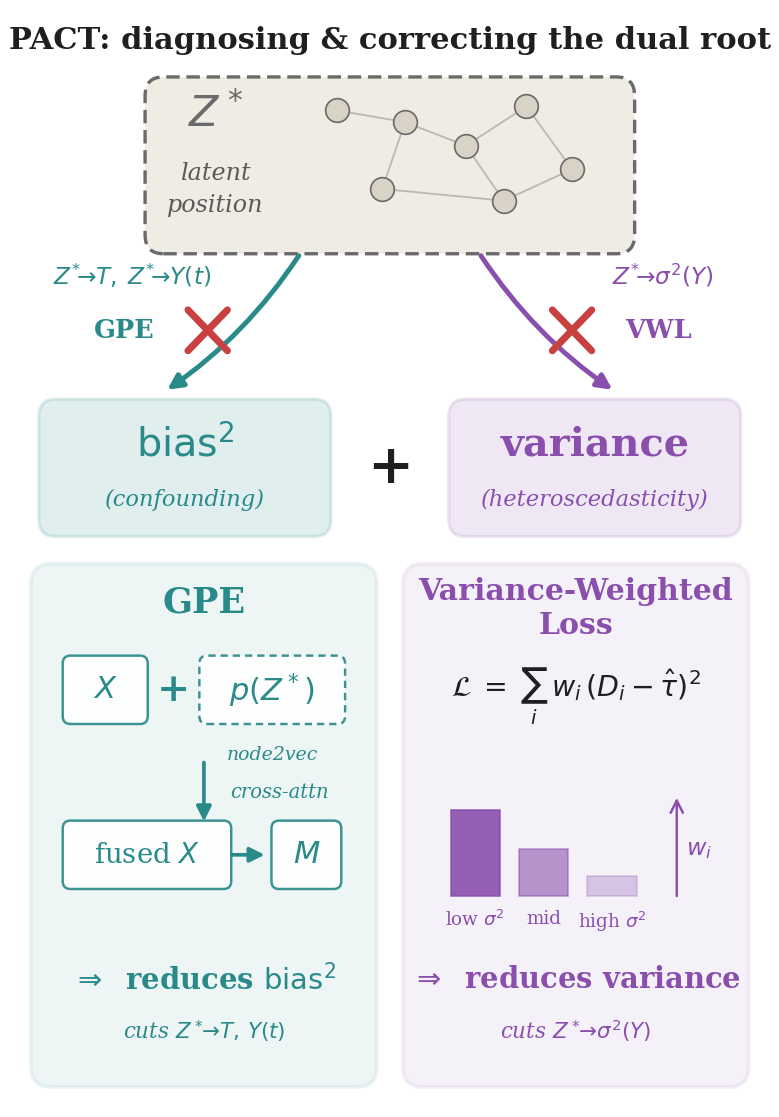
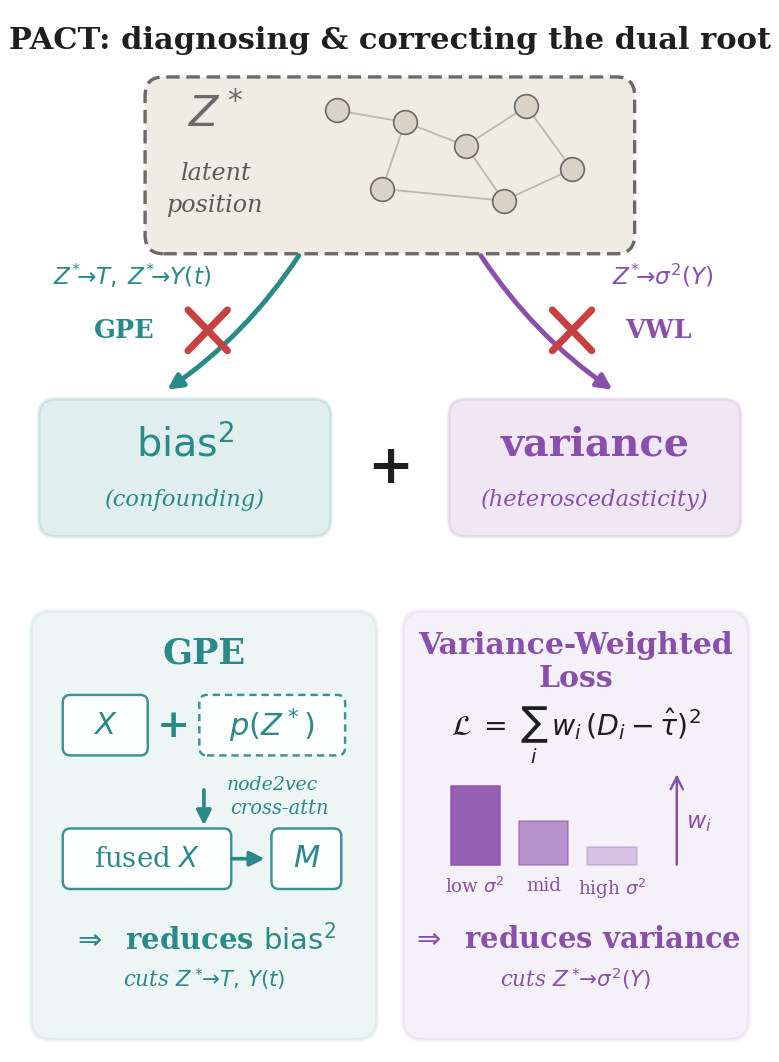
Fig 1: tighten plug-in card internal spacing
Card height 66 -> 54 units; internal gaps compressed:
  - VWL formula moved closer to the bar chart (gap ~15 -> ~7).
  - GPE row 2 (fused X -> M) moved tight under row 1, then
    takeaway + cuts lines packed right below.
  - VWL takeaway aligned at the same y as GPE's takeaway, so the
    two cards look consistent.
Figure height 5.0 -> 4.75 in. No content changes.

diff --git a/images/scripts/make_cover.py b/images/scripts/make_cover.py
@@ -189,82 +189,86 @@ def draw_zone_b(ax):
 #  vertical whitespace.)
 # ===================================================================
 def draw_zone_c(ax):
-    SHIFT = 10  # shift all zone-C content up by this many units
+    # Content y-coordinates are absolute (already post-shift from v11).
+    # Card height reduced from 66 -> 54 units; internal spacing tightened
+    # so the formula / bar-chart / takeaway lines pack closer together.
+    CARD_Y = 24
+    CARD_H = 54
 
     # =============== GPE card ===============
     gpe = mpatches.FancyBboxPatch(
-        (3.0, 8.0 + SHIFT), 45.0, 66.0,
+        (3.0, CARD_Y), 45.0, CARD_H,
         boxstyle="round,pad=0.3,rounding_size=2.6",
         linewidth=1.3, edgecolor=BIAS_ACCENT,
         facecolor=BIAS_ACCENT, alpha=0.08, zorder=3,
     )
     ax.add_patch(gpe)
-    ax.text(25.5, 69.5 + SHIFT, "GPE",
+    ax.text(25.5, 73.0, "GPE",
             ha="center", va="center",
             fontsize=11.5, fontweight="bold", color=BIAS_ACCENT, zorder=5)
 
     # Row 1: X  (+)  p(Z*)
-    _mini_box(ax, 7.0, 54.0 + SHIFT, 11.0, 8.5, "$X$", BIAS_ACCENT, text_size=10)
-    ax.text(21.5, 58.25 + SHIFT, "+", ha="center", va="center",
+    _mini_box(ax, 7.0, 60.0, 11.0, 7.5, "$X$", BIAS_ACCENT, text_size=10)
+    ax.text(21.5, 63.75, "+", ha="center", va="center",
             fontsize=13, color=BIAS_ACCENT, fontweight="bold", zorder=5)
-    _mini_box(ax, 25.0, 54.0 + SHIFT, 19.0, 8.5, r"$p(Z^*)$",
+    _mini_box(ax, 25.0, 60.0, 19.0, 7.5, r"$p(Z^*)$",
               BIAS_ACCENT, dashed=True, text_size=10)
-    ax.text(34.5, 50.0 + SHIFT, "node2vec",
+    ax.text(34.5, 56.2, "node2vec",
             ha="center", va="center",
             fontsize=6.2, style="italic", color=BIAS_ACCENT, zorder=5)
 
-    # Down-arrow labelled in-line
-    ax.annotate("", xy=(25.5, 41.5 + SHIFT), xytext=(25.5, 49.0 + SHIFT),
+    # Compact down-arrow labelled in-line
+    ax.annotate("", xy=(25.5, 51.0), xytext=(25.5, 55.5),
                 arrowprops=dict(arrowstyle="-|>", color=BIAS_ACCENT, lw=1.2,
                                 shrinkA=0, shrinkB=0),
                 zorder=5)
-    ax.text(29.0, 45.3 + SHIFT, "cross-attn",
+    ax.text(29.0, 53.2, "cross-attn",
             ha="left", va="center",
             fontsize=6.4, style="italic", color=BIAS_ACCENT, zorder=5)
 
     # Row 2: fused input -> M
-    _mini_box(ax, 7.0, 33.0 + SHIFT, 22.0, 8.5, "fused $X$", BIAS_ACCENT, text_size=9)
-    ax.annotate("", xy=(33.5, 37.25 + SHIFT), xytext=(29.2, 37.25 + SHIFT),
+    _mini_box(ax, 7.0, 43.0, 22.0, 7.5, "fused $X$", BIAS_ACCENT, text_size=9)
+    ax.annotate("", xy=(33.5, 46.75), xytext=(29.2, 46.75),
                 arrowprops=dict(arrowstyle="-|>", color=BIAS_ACCENT, lw=1.2,
                                 shrinkA=0, shrinkB=0),
                 zorder=5)
-    _mini_box(ax, 34.5, 33.0 + SHIFT, 9.0, 8.5, "$M$", BIAS_ACCENT, text_size=10)
+    _mini_box(ax, 34.5, 43.0, 9.0, 7.5, "$M$", BIAS_ACCENT, text_size=10)
 
-    # Takeaway lines
-    ax.text(25.5, 21.5 + SHIFT, r"$\Rightarrow\;$ reduces $\mathrm{bias}^2$",
+    # Takeaway lines — tight against row 2 above and each other
+    ax.text(25.5, 36.5, r"$\Rightarrow\;$ reduces $\mathrm{bias}^2$",
             ha="center", va="center",
             fontsize=9.5, fontweight="bold", color=BIAS_ACCENT, zorder=5)
-    ax.text(25.5, 15.0 + SHIFT,
+    ax.text(25.5, 31.5,
             r"cuts $Z^*\!\to T,\, Y(t)$",
             ha="center", va="center",
             fontsize=7.0, style="italic", color=BIAS_ACCENT, zorder=5)
 
     # =============== VWL card ===============
     vwl = mpatches.FancyBboxPatch(
-        (52.0, 8.0 + SHIFT), 45.0, 66.0,
+        (52.0, CARD_Y), 45.0, CARD_H,
         boxstyle="round,pad=0.3,rounding_size=2.6",
         linewidth=1.3, edgecolor=VAR_ACCENT,
         facecolor=VAR_ACCENT, alpha=0.08, zorder=3,
     )
     ax.add_patch(vwl)
-    ax.text(74.5, 70.8 + SHIFT, "Variance-Weighted",
+    ax.text(74.5, 74.0, "Variance-Weighted",
             ha="center", va="center",
             fontsize=9.8, fontweight="bold", color=VAR_ACCENT, zorder=5)
-    ax.text(74.5, 66.5 + SHIFT, "Loss",
+    ax.text(74.5, 69.8, "Loss",
             ha="center", va="center",
             fontsize=9.8, fontweight="bold", color=VAR_ACCENT, zorder=5)
 
-    # Key formula
-    ax.text(74.5, 57.5 + SHIFT,
+    # Formula — moved closer to the bar chart below
+    ax.text(74.5, 62.5,
             r"$\mathcal{L}\;=\;\sum_{i}\,w_i\,(D_i - \hat\tau)^2$",
             ha="center", va="center",
             fontsize=9.3, color=TEXT_DARK, zorder=5)
 
-    # Bar chart
+    # Bar chart — raised slightly to reduce the formula->bars gap
     bar_base_x = 58.0
-    bar_base_y = 32.0 + SHIFT
+    bar_base_y = 46.0
     bar_labels = [r"low $\sigma^2$", "mid", r"high $\sigma^2$"]
-    bar_heights = [11.0, 6.0, 2.5]
+    bar_heights = [10.0, 5.5, 2.3]
     bar_alphas = [0.90, 0.58, 0.28]
     for i, (h, a, lbl) in enumerate(zip(bar_heights, bar_alphas, bar_labels)):
         x = bar_base_x + i * 9.0
@@ -273,22 +277,22 @@ def draw_zone_c(ax):
             facecolor=VAR_ACCENT, alpha=a, edgecolor=VAR_ACCENT,
             linewidth=0.5, zorder=4,
         ))
-        ax.text(x + 3.25, bar_base_y - 1.7, lbl,
+        ax.text(x + 3.25, bar_base_y - 1.5, lbl,
                 ha="center", va="top",
                 fontsize=6.0, color=VAR_ACCENT, zorder=5)
-    ax.annotate("", xy=(87.8, 32.0 + SHIFT), xytext=(87.8, 44.5 + SHIFT),
+    ax.annotate("", xy=(87.8, 46.0), xytext=(87.8, 57.5),
                 arrowprops=dict(arrowstyle="<-", color=VAR_ACCENT, lw=0.8,
                                 shrinkA=0, shrinkB=0),
                 zorder=5)
-    ax.text(89.0, 38.0 + SHIFT, r"$w_i$",
+    ax.text(89.0, 51.5, r"$w_i$",
             ha="left", va="center",
             fontsize=7.8, color=VAR_ACCENT, style="italic", zorder=5)
 
-    # Takeaway lines
-    ax.text(74.5, 21.5 + SHIFT, r"$\Rightarrow\;$ reduces variance",
+    # Takeaway lines — aligned with GPE card's takeaways
+    ax.text(74.5, 36.5, r"$\Rightarrow\;$ reduces variance",
             ha="center", va="center",
             fontsize=9.5, fontweight="bold", color=VAR_ACCENT, zorder=5)
-    ax.text(74.5, 15.0 + SHIFT,
+    ax.text(74.5, 31.5,
             r"cuts $Z^*\!\to \sigma^2(Y)$",
             ha="center", va="center",
             fontsize=7.0, style="italic", color=VAR_ACCENT, zorder=5)
@@ -310,10 +314,10 @@ def _mini_box(ax, x, y, w, h, label, colour, *, dashed=False, text_size=7.5):
 
 
 def main():
-    fig = plt.figure(figsize=(3.45, 5.0))
+    fig = plt.figure(figsize=(3.45, 4.75))
     ax = fig.add_axes([0, 0, 1, 1])
     ax.set_xlim(0, 100)
-    ax.set_ylim(15, 155)
+    ax.set_ylim(22, 155)
     ax.axis("off")
 
     ax.text(50.0, 151.0,
